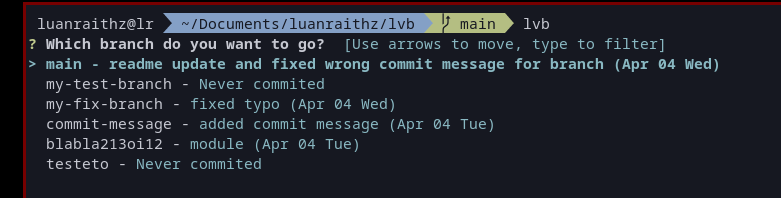
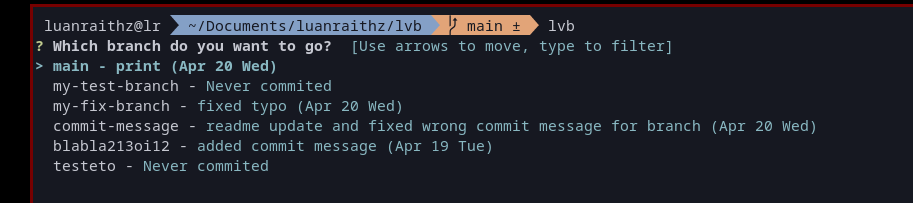
fixed wrong date and update print

Changed region(s): [[0.0307, 0.0, 1.0, 1.0]]

diff --git a/main.go b/main.go
@@ -128,7 +128,7 @@ func main() {
 					if !ex || info.Commit == "" {
 						return "Never commited"
 					}
-					return fmt.Sprintf("%s (%s)", info.Commit, info.Date.Format("Jan 01 Mon"))
+					return fmt.Sprintf("%s (%s)", info.Commit, info.Date.Format("Jan 02 Mon"))
 				},
 			},
 			Name: "branch",
